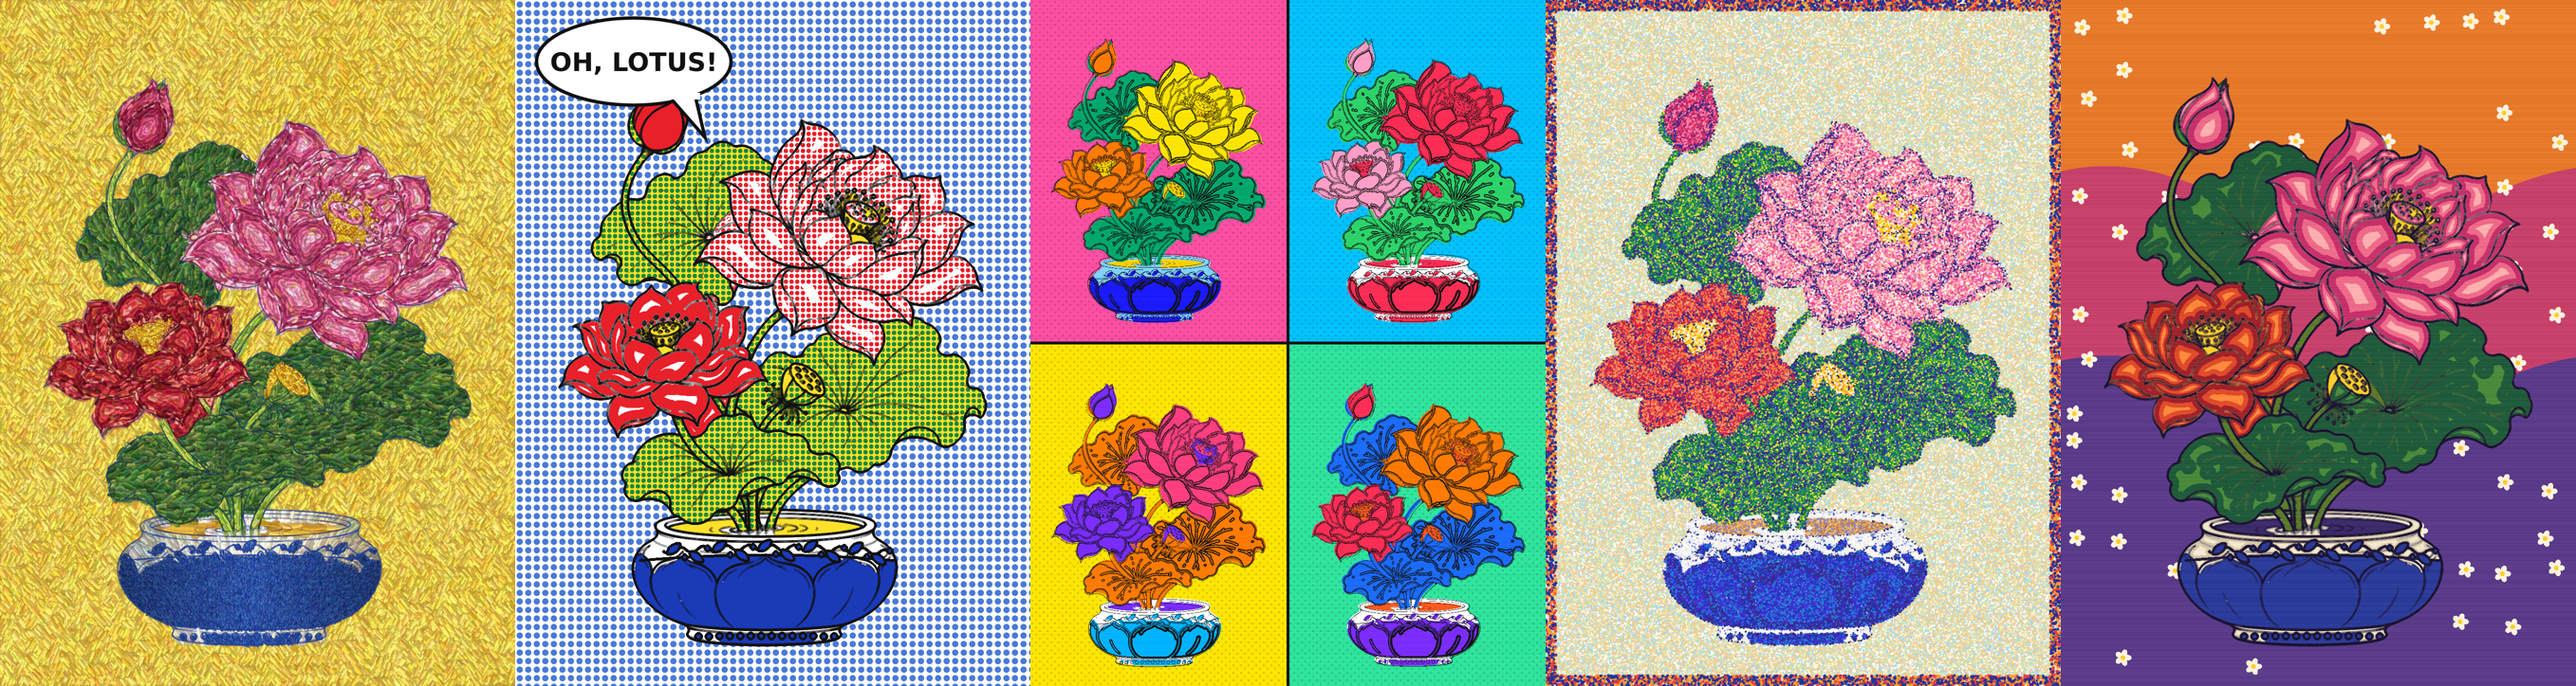
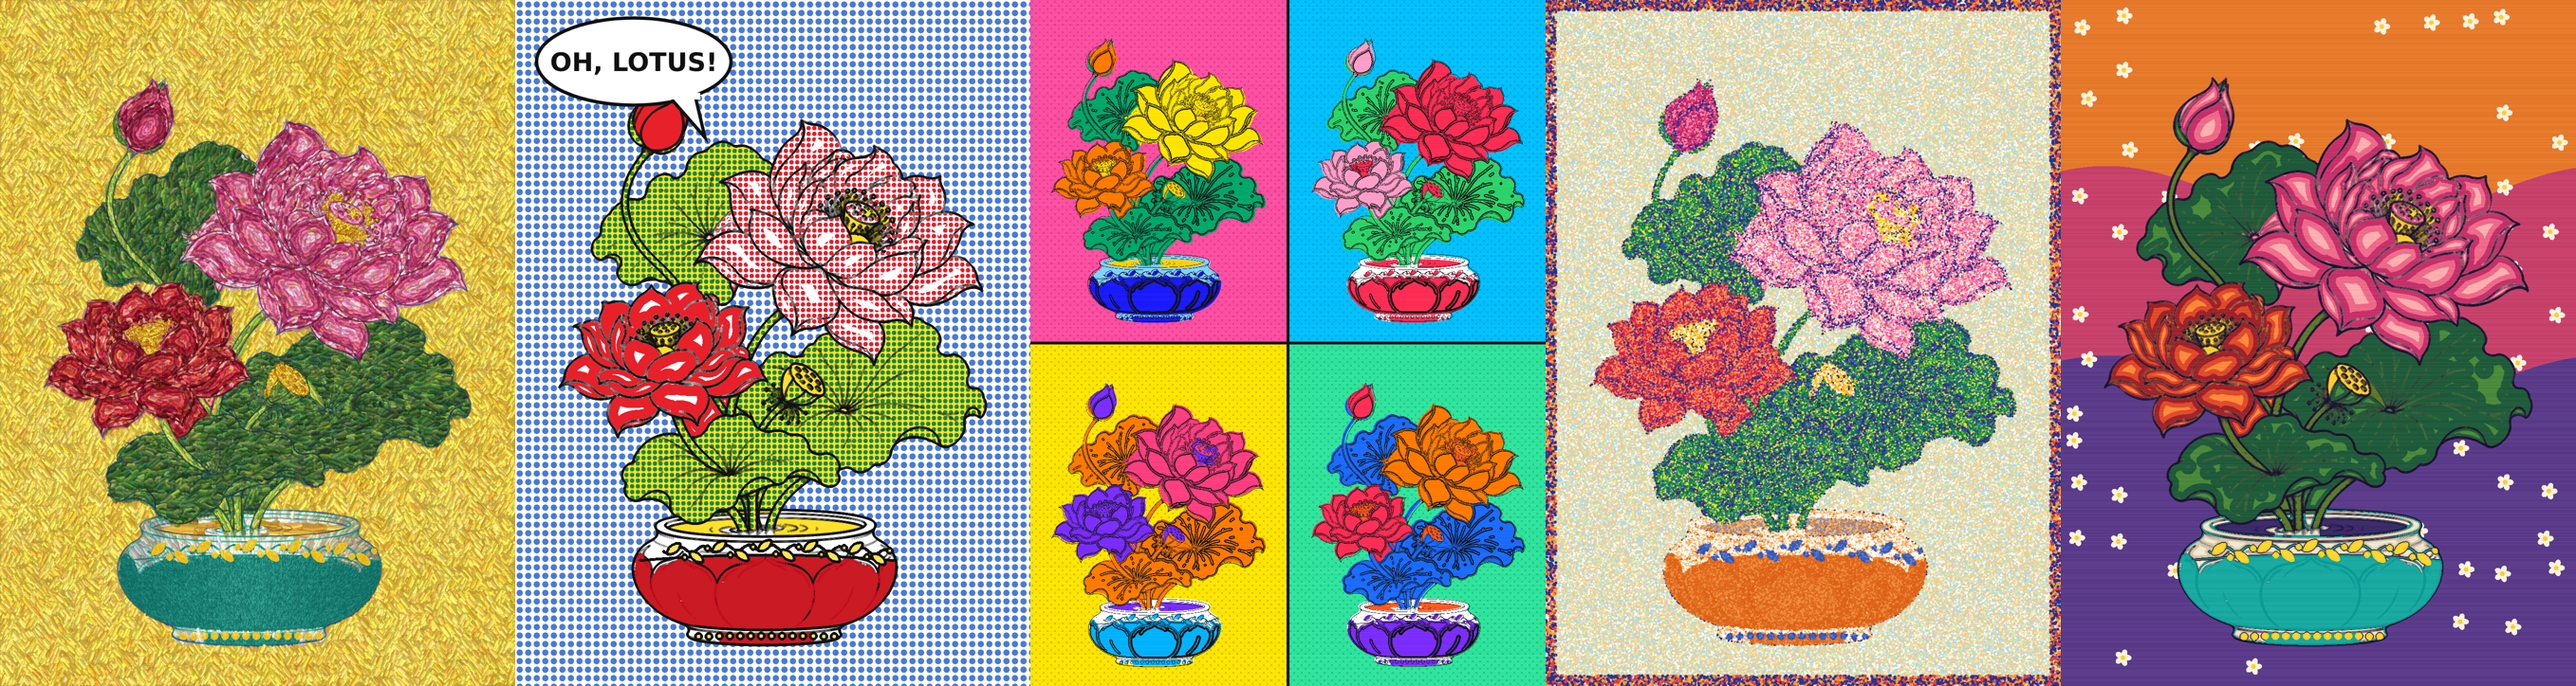
Lotus: per-style bowl colours
Claude-Session: https://claude.ai/code/session_01Vdfste3ym7yyiZRhYkiYaU

diff --git a/projects/lotus_masters_20261109/code/recolor_bowl.py b/projects/lotus_masters_20261109/code/recolor_bowl.py
@@ -1,0 +1,37 @@
+"""Give every painting its own bowl colours (the line art's bowl was painted blue by every style).
+Body = lotus-petal relief region, ornament = vine leaves / dots / pearls (orn_mask.png). Only bluish pixels are remapped,
+by luminance, so brush texture, highlights and ink lines survive.
+usage: recolor_bowl.py lineart_dir painting.png style"""
+import sys, numpy as np
+from PIL import Image
+from scipy import ndimage as ndi
+d, path, style = sys.argv[1:4]
+H = lambda h: np.array([int(h[i:i + 2], 16) for i in (1, 3, 5)], np.float32)
+# style: (body dark, body light, ornament dark, ornament light)
+PAL = {
+ 'monet':        ('#2f8a80', '#9adccb', '#b8487a', '#f4b8d0'),   # celadon bowl, pink vine
+ 'klimt':        ('#7a0c20', '#d83a4a', '#b88418', '#f8dc70'),   # crimson bowl, gold vine
+ 'matisse':      ('#e0a800', '#fff070', '#1c3aa8', '#5a7af0'),   # yellow bowl, blue vine
+ 'hockney':      ('#d81878', '#ff8ac0', '#ffffff', '#ffffff'),   # hot pink bowl, white vine
+ 'vangogh':      ('#0e6a62', '#4acab0', '#e8b010', '#fff060'),   # teal bowl, yellow vine
+ 'lichtenstein': ('#c0101c', '#ff4a50', '#ffe040', '#fff6a0'),   # red bowl, yellow vine
+ 'seurat':       ('#d8560e', '#fcae58', '#2a48a8', '#78a0e8'),   # orange bowl, blue vine
+ 'gauguin':      ('#0a9a94', '#5ae8d8', '#ffd020', '#fff090'),   # turquoise bowl, yellow vine
+ 'picasso':      ('#a8402c', '#e89070', '#f0e4c8', '#fffaf0'),   # terracotta bowl, cream vine
+ 'dali':         ('#7a1018', '#d8404a', '#c8982c', '#f8e090'),   # deep red bowl, gold vine
+}
+if style not in PAL: sys.exit(0)
+bd, bl, od, ol = [H(c) for c in PAL[style]]
+im = np.asarray(Image.open(path).convert('RGB')).astype(np.float32)
+cls = np.asarray(Image.open(f'{d}/cls.png'))[:, :, 0]
+orn = ndi.binary_dilation(np.asarray(Image.open(f'{d}/orn_mask.png')) > 0, iterations=1)
+bowl = np.isin(cls, [2, 3])
+r, g, b = im[..., 0], im[..., 1], im[..., 2]
+blue = (b > r + 18) & (b > g + 4)
+L = 0.3 * r + 0.59 * g + 0.11 * b
+t = np.clip((L - 45) / 100, 0, 1)[..., None]
+body = bowl & blue & ~orn; ornm = bowl & blue & orn
+out = im.copy()
+out[body] = (bd + (bl - bd) * t)[body]
+out[ornm] = (od + (ol - od) * t)[ornm]
+Image.fromarray(out.clip(0, 255).astype(np.uint8)).save(path)
